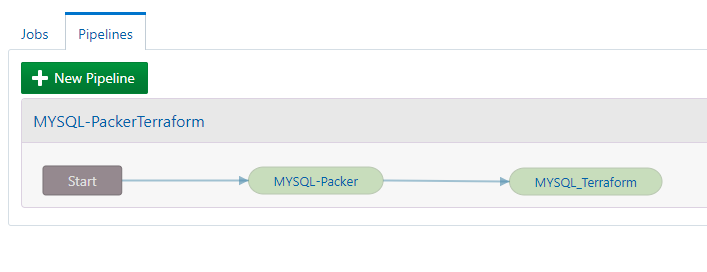
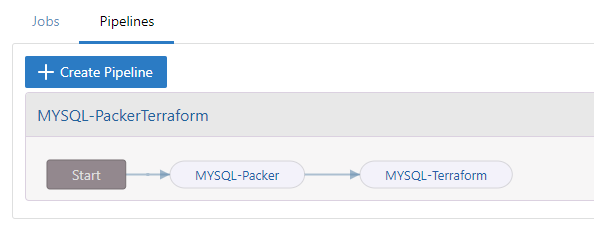
Updates for new trials

Changed region(s): [[0.0, 0.4224, 1.0, 0.875], [0.0, 0.0302, 1.0, 0.3922], [0.0303, 0.9353, 1.0, 0.9655]]

diff --git a/workshops/devcs-mysql/Lab100.md b/workshops/devcs-mysql/Lab100.md
@@ -728,11 +728,15 @@ In this step you will create and execute the Terraform build job to create a Com
 
 Now that you have built and tested the Packer and Terraform builds we will show you how to define a flow using the Pipeline capabilities in Developer Cloud Service. 
 
-- Click the **Build** tab in the Developer project.
+- Click the **Builds** tab in the Developer project.
 
-   ![](images/100/85.PNG)
+   ![](images/100/57.PNG)
 
-- Click on the **Pipelines** tab, then click **New Pipeline**. In the dialog enter:
+- Click on the **Pipelines** tab, then click **+Create Pipeline**.
+
+    ![](images/100/86-2.PNG)
+ 
+  In the dialog enter:
 
   ```
   MYSQL-PackerTerraform
